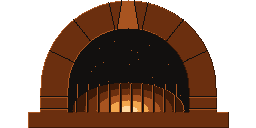
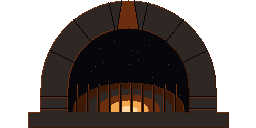
Act II was hot in two ways and only one of them was luminance
Measured against the other two acts, the Ember Reach sat at luma 169 where act
I's masonry sat at 97 - half again as bright before any tint multiplied it,
which is what every side-by-side kept showing. The tint was the wrong dial:
matching act I would have taken a 0.57x multiply, which crushes the darks.

The cause is that section 5's families are not interchangeable at this size. E
has five entries where B and P have six, and its darkest is already a mid tone,
so an act bodied in its own family lands somewhere different depending on which
family that is. Dropping a step (E1 -> E0) matched the luminance exactly, 95
against 97.

It still read hot, because brightness was only half of it. Measured across the
three map screens, act II sat at 0.78 mean saturation against 0.53 for both
neighbours - E0 is 0.87 saturated where B1 and P1 are 0.58 and 0.61, since the
ember ramp is authored for a flame rather than for the largest surface on
screen. A tint cannot touch that at all: a multiply by a grey scales all three
channels and leaves saturation where it was.

So act II's mass is neutral (N3) and the ember does what a hue-shifted ramp is
supposed to do - sit in the shadow (E0) and in the light (E1, E3). It now
measures between the other two acts on both axes rather than above both, and
warm shadows over a neutral body say "scorched" better than a solid orange
floor did.

The per-act tints go back to the same per-surface brightness every other act
[…]

diff --git a/tools/artgen/src/icons/backgrounds.rs b/tools/artgen/src/icons/backgrounds.rs
@@ -140,7 +140,24 @@ struct Stone {
 }
 
 const WARD: Stone = Stone { joint: N1, shade: B0, face: B1, lit: B2, sheen: B3, accent: V2 };
-const REACH: Stone = Stone { joint: N1, shade: E0, face: E1, lit: E2, sheen: E3, accent: R3 };
+// Act II is the one act whose body is not its own hue family, and it took two
+// passes to get there. Bodied on `E1` it was half again as bright as the other
+// two acts before any tint multiplied it (luma 169 against act I's 97), which
+// is what a side-by-side kept showing. Dropping to `E0` fixed the luminance
+// exactly - 95 against 97 - and the screens still read hot, because the
+// problem was only half luminance. Measured across the three map screens, act
+// II sat at 0.78 mean saturation against 0.53 for both neighbours: `E0` is
+// 0.87 saturated where `B1` and `P1` are 0.58 and 0.61, since the ember family
+// is authored for a flame rather than for the largest surface on screen.
+//
+// A tint cannot fix that - a multiply by a grey scales all three channels and
+// leaves saturation exactly where it was - so the mass is neutral (`N3`) and
+// the ember does what a hue-shifted ramp is supposed to do: sit in the shadow
+// (`E0`) and in the light (`E1`, `E3`). Warm shadows and warm highlights over a
+// neutral body is a *more* legible way to say "scorched" than a solid orange
+// floor was, and it is the only act that needs it because it is the only one
+// whose family was authored for something emissive.
+const REACH: Stone = Stone { joint: N0, shade: E0, face: N3, lit: E1, sheen: E3, accent: R3 };
 const THRONE: Stone = Stone { joint: N0, shade: P0, face: P1, lit: P2, sheen: P3, accent: G2 };
 
 // Each act gets all three patterns rather than one pattern in three colours,

diff --git a/docs/ART_SPEC.md b/docs/ART_SPEC.md
@@ -670,3 +670,13 @@ Per-act identity lives in the art rather than in a `Modulate`. Each act authors 
 (`ward`, `reach`, `throne`) drawn in its own ramp family, so the surface tints in `acts.json` are
 neutral greys carrying brightness alone — a tint with a hue in it would be tinting twice, and the
 second one lands off the ramp.
+
+**The ember family is the exception, and it is worth knowing why rather than reading as an
+oversight.** Act II's mass is neutral (`N3`) with the ember only in its shadow (`E0`) and its light
+(`E1`, `E3`). §5's families are not interchangeable at this size: `E` has five entries where `B` and
+`P` have six and its darkest is already a mid tone, so bodying act II in its own family put it at
+luma 169 against act I's 97 *and* at 0.78 mean saturation against 0.53 — the largest surface on
+screen painted in a ramp authored for a flame. Luminance is fixable by dropping a step; **saturation
+is not fixable by tint at all**, since a multiply by a grey scales all three channels and leaves it
+exactly where it was. Warm shadows and warm highlights over a neutral body is the ordinary
+hue-shifted answer, and it says "scorched" better than a solid orange floor did.
